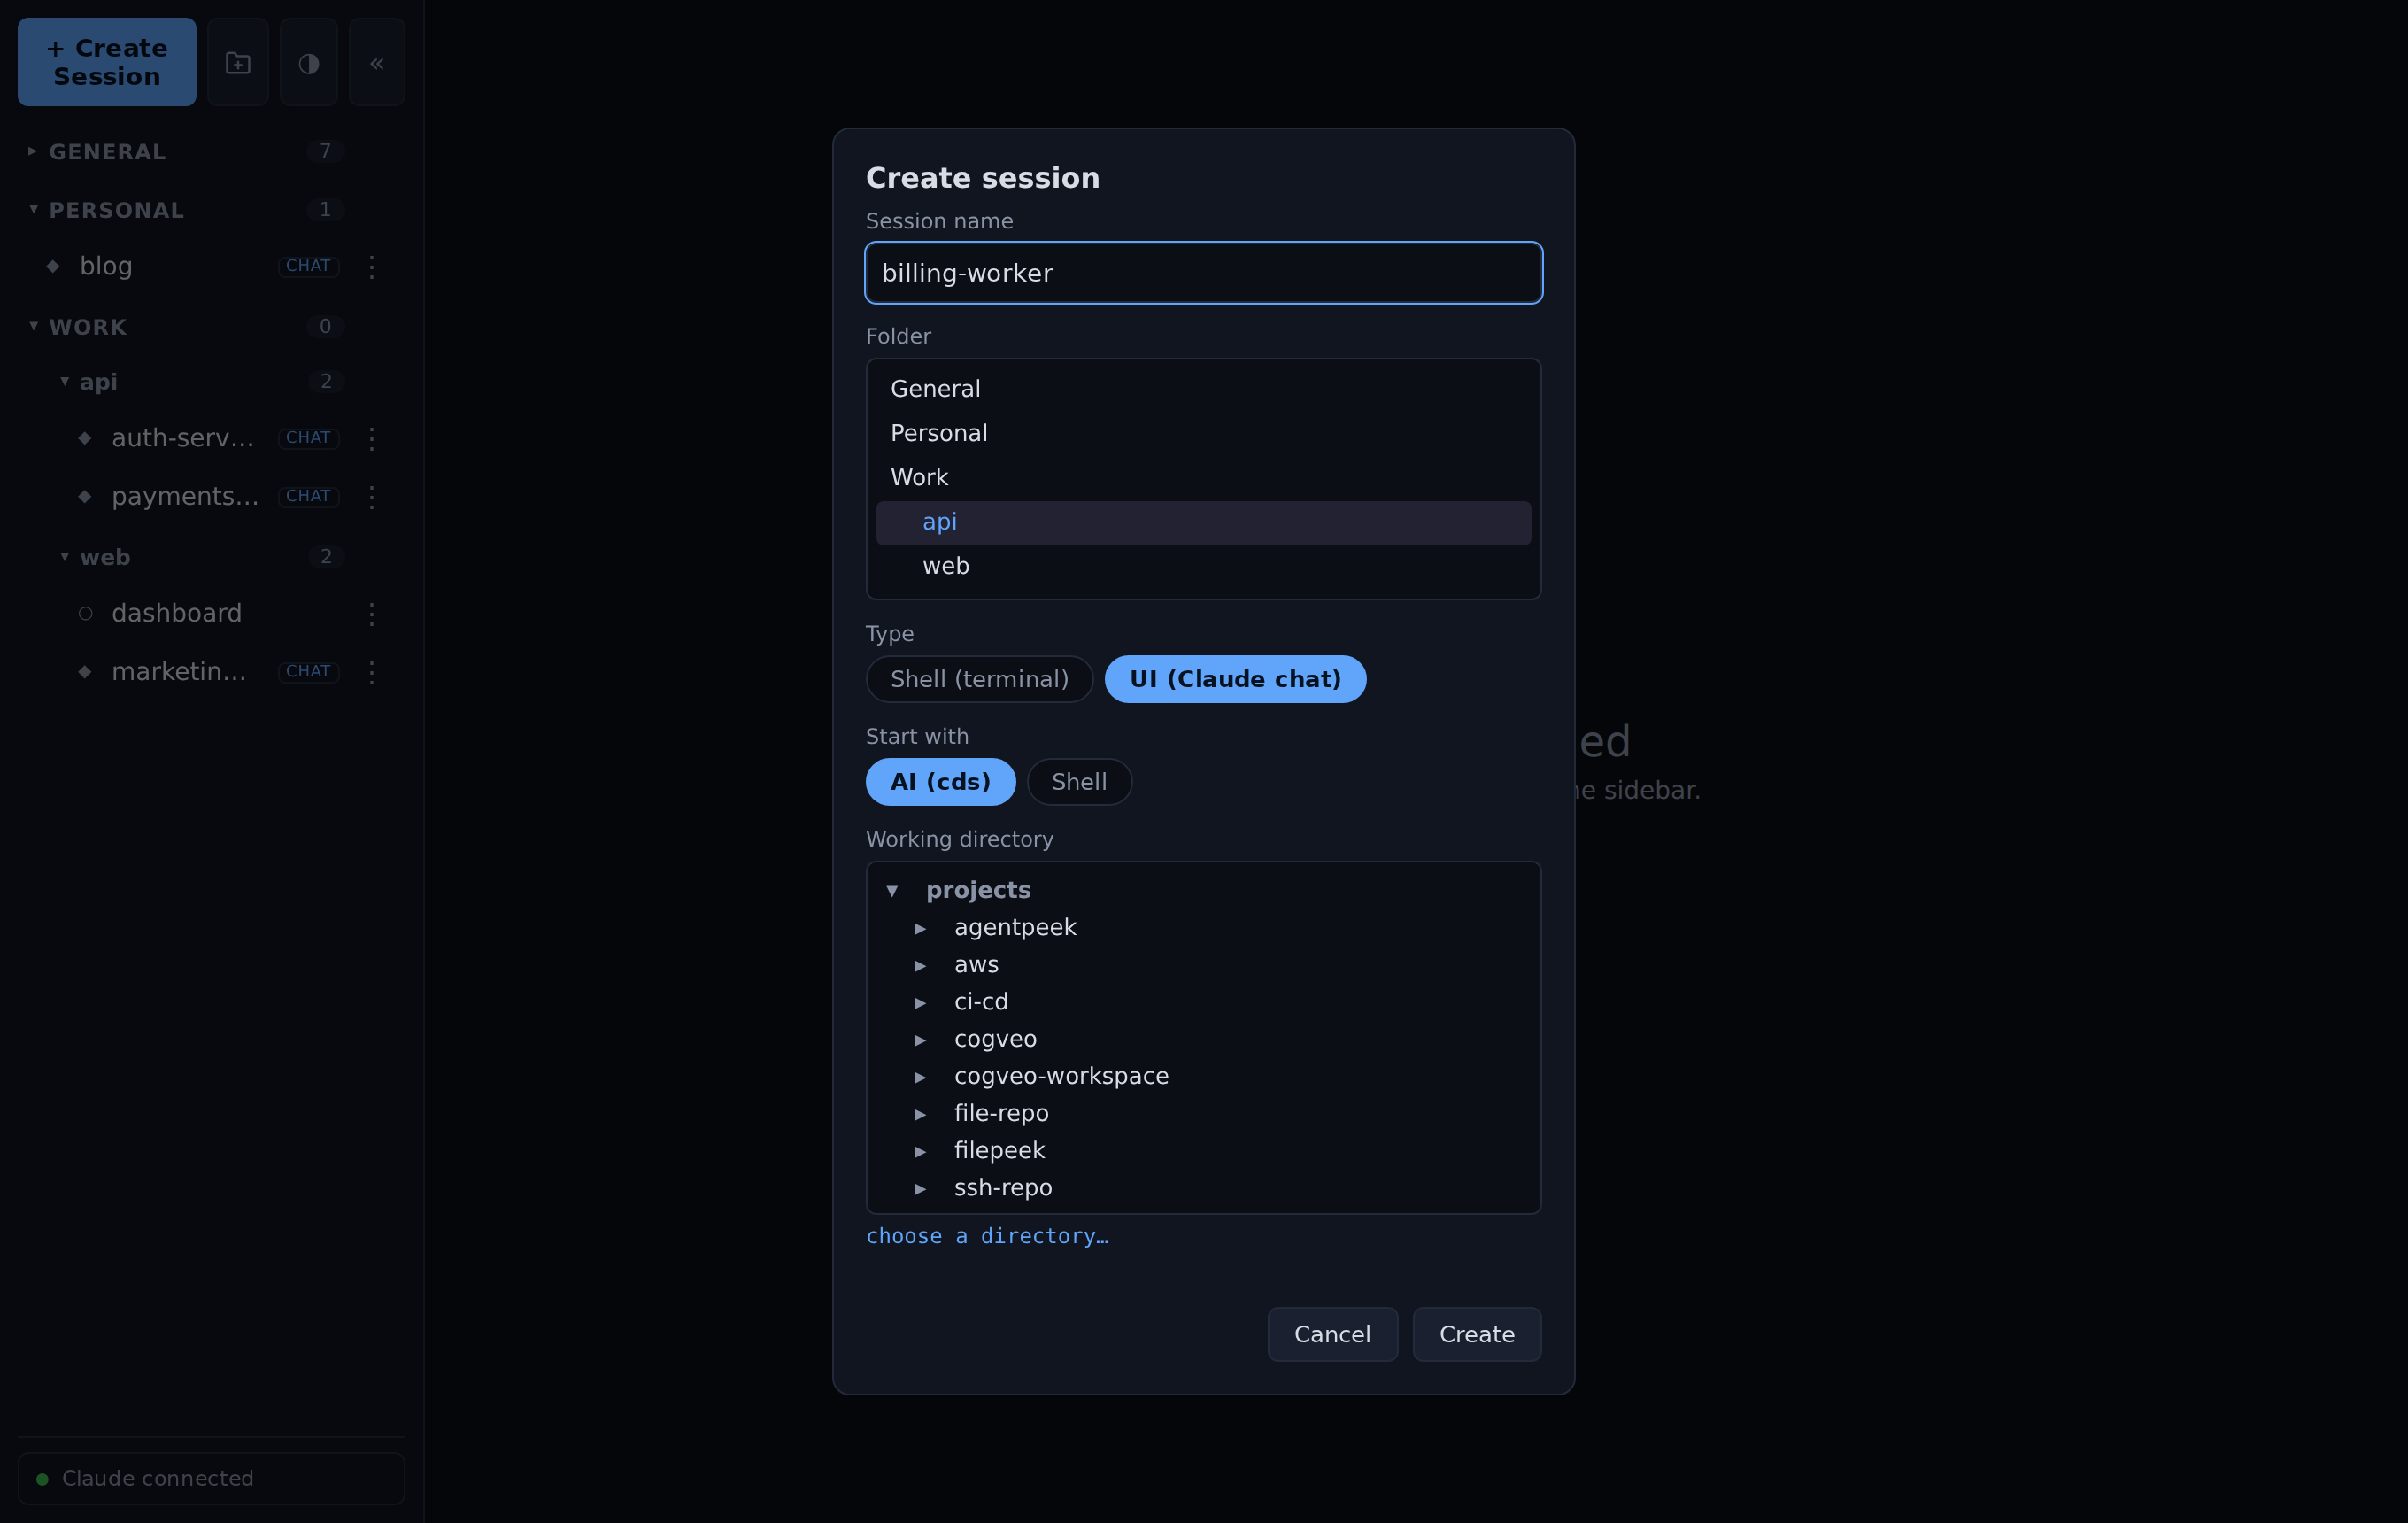
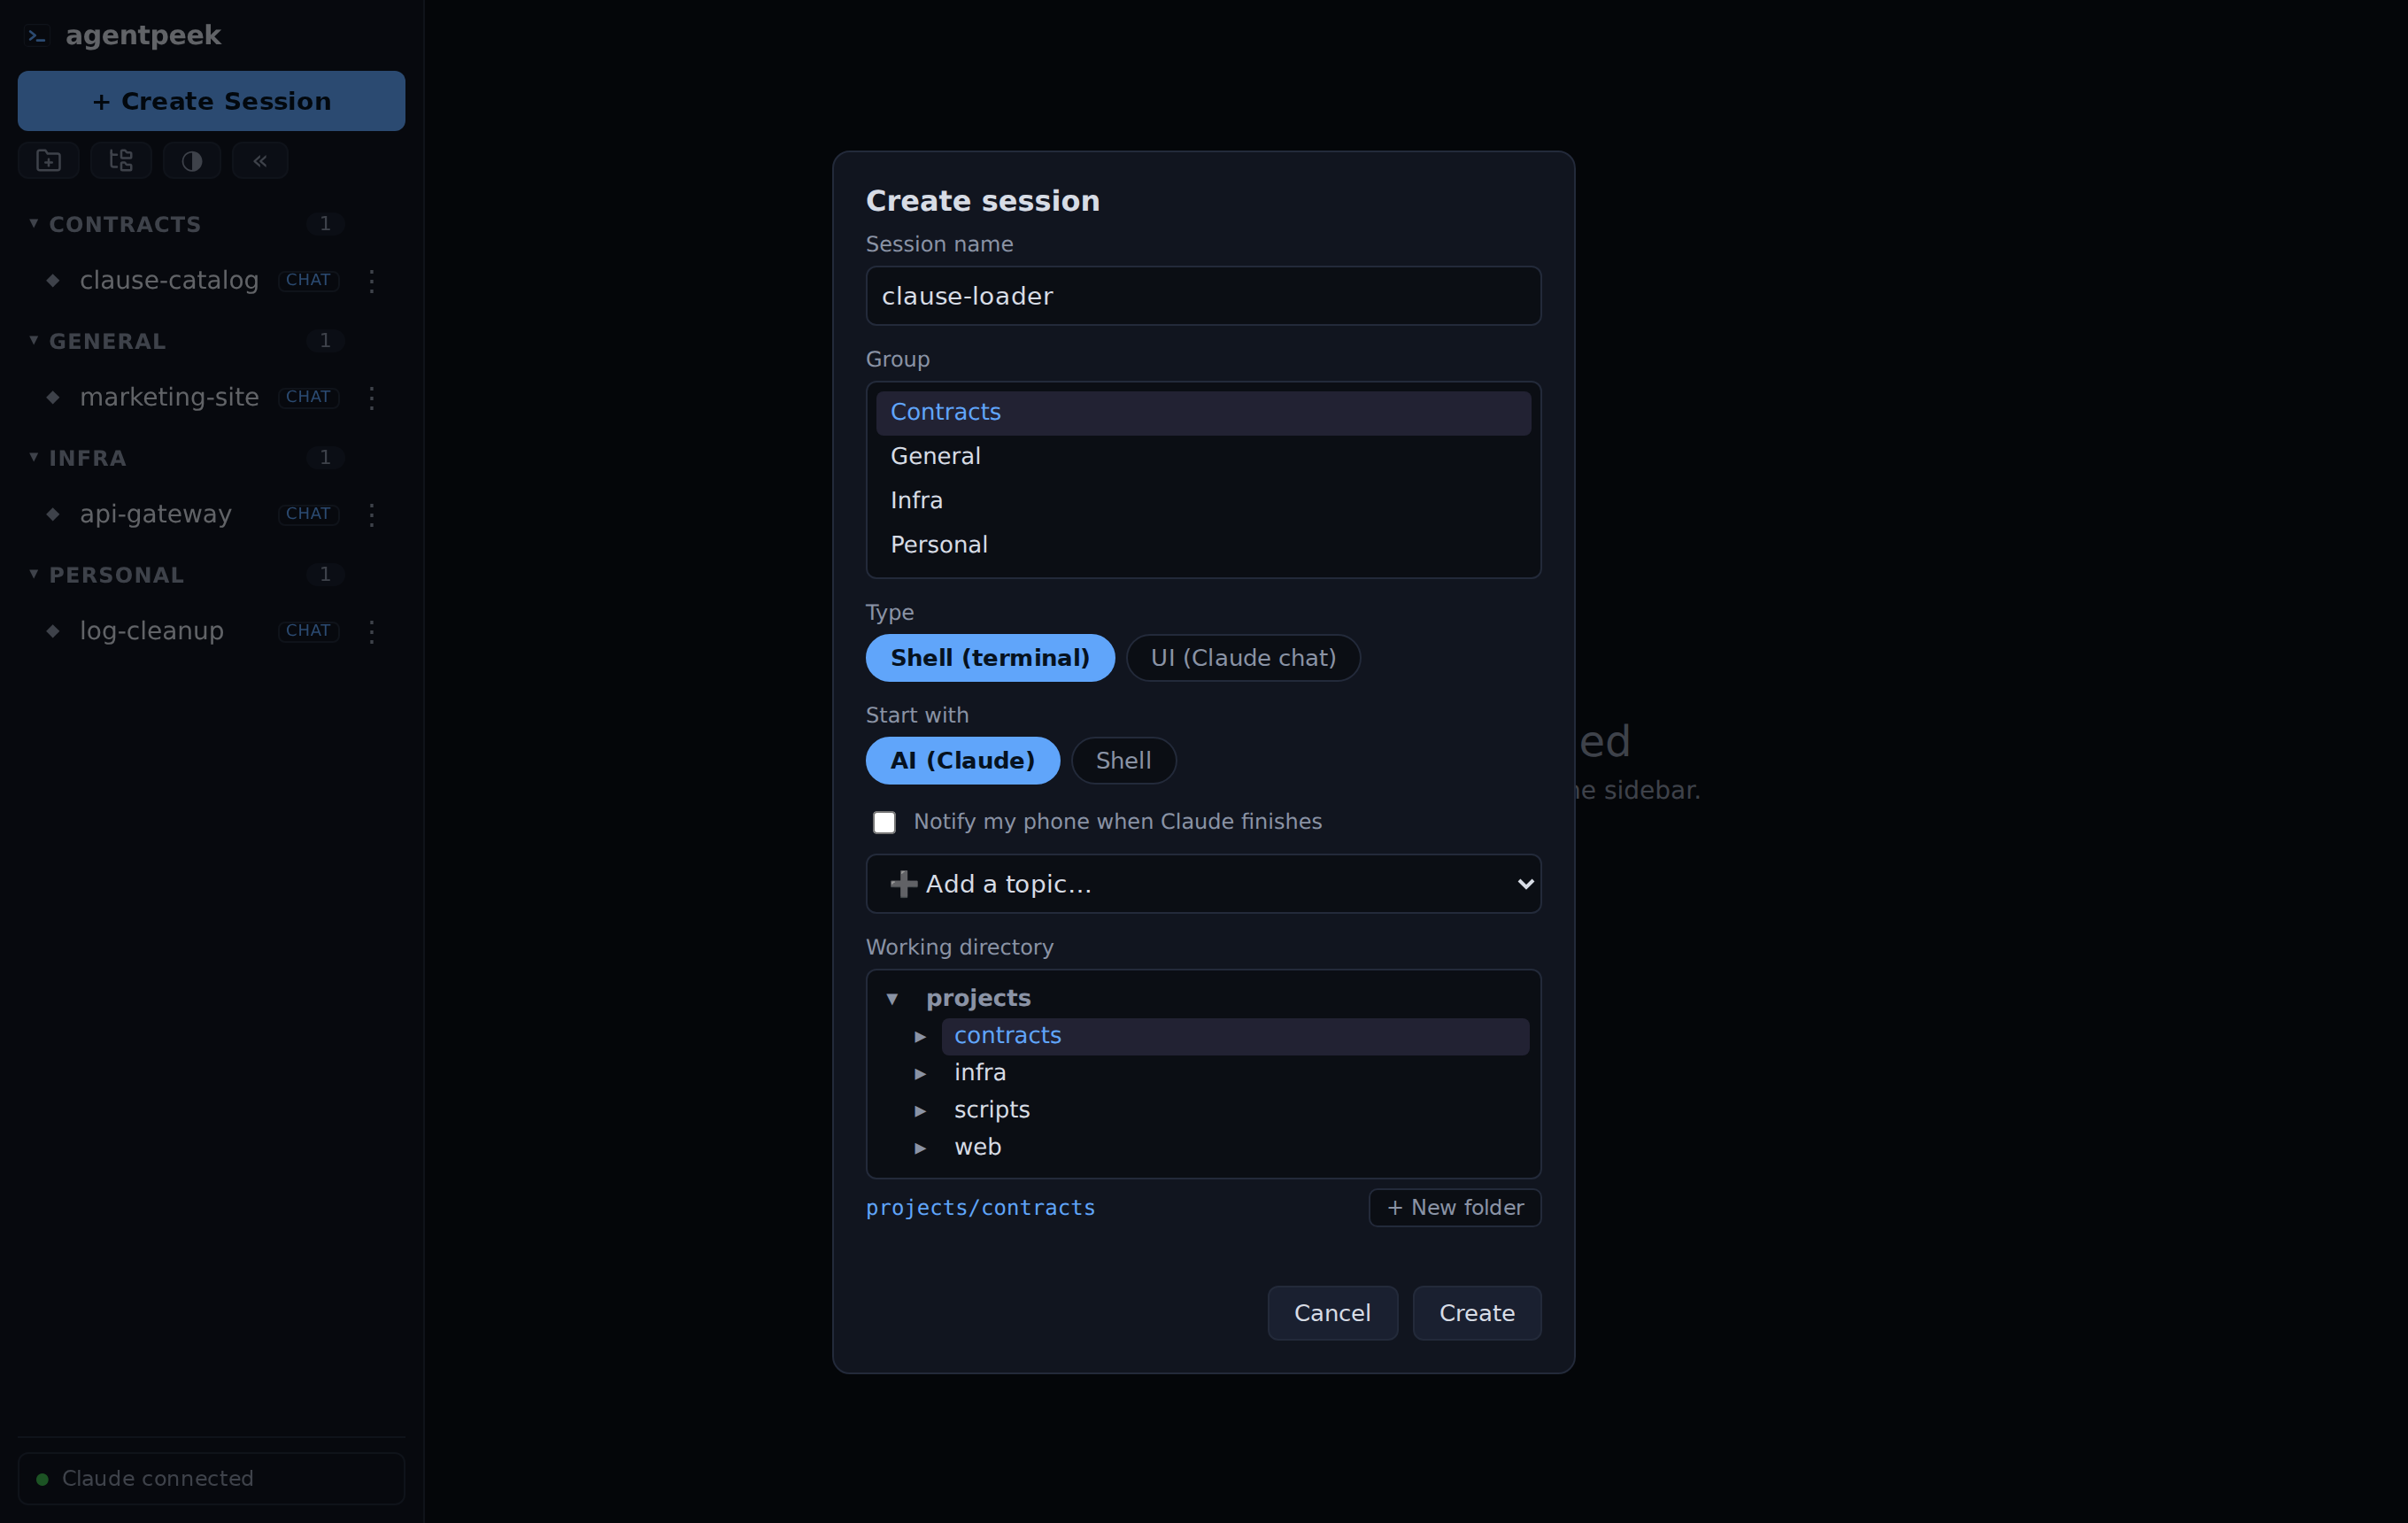
site: document macOS (launchd) and Docker installs
Quick start now has Linux/WSL2, macOS (setup-macos.sh), and Docker (ghcr
multi-arch image) sections; structured data + FAQ updated to list all
platforms. Refresh chat/create screenshots.

diff --git a/site/index.html b/site/index.html
@@ -29,7 +29,7 @@
   "@context": "https://schema.org",
   "@type": "SoftwareApplication",
   "name": "agentpeek",
-  "operatingSystem": "Linux, Windows (WSL2)",
+  "operatingSystem": "Linux, macOS, Windows (WSL2), Docker",
   "applicationCategory": "DeveloperApplication",
   "description": "A self-hosted browser control panel for Claude Code: persistent sessions you drive as a terminal or a streaming chat (Claude Agent SDK), with Markdown/table rendering, inline tool activity, @-mention, image paste, voice, and a model picker. Reachable from any browser over a Tailscale tailnet; sessions keep working when you disconnect.",
   "url": "https://agentpeek.dev/",
@@ -66,8 +66,8 @@
     },
     {
       "@type": "Question",
-      "name": "Does agentpeek work on WSL2?",
-      "acceptedAnswer": { "@type": "Answer", "text": "That's the home turf. Run it inside WSL2 and open it from your Windows browser; it auto-starts on boot via systemd user services and is reached over Tailscale." }
+      "name": "Which platforms does agentpeek run on?",
+      "acceptedAnswer": { "@type": "Answer", "text": "Linux and WSL2 via setup.sh (systemd user services), macOS via setup-macos.sh (Homebrew + launchd agents), and anywhere via the prebuilt multi-arch Docker image — which is also the only way to run it on Windows natively. On WSL2 it opens straight from your Windows browser and auto-starts on boot, reached over Tailscale." }
     },
     {
       "@type": "Question",
@@ -158,7 +158,7 @@
   <img src="logo.svg" alt="agentpeek logo">
   <h1>Persistent Claude Code sessions,<br>in any browser.</h1>
   <p class="tagline">agentpeek is the free, self-hosted browser control panel for Claude Code. Start a
-     session on your Linux or WSL2 box, drive it as a terminal or a chat, and reach it from any
+     session on your Linux, macOS, or WSL2 box, drive it as a terminal or a chat, and reach it from any
      device over your tailnet — <strong>it keeps working when you close the laptop.</strong></p>
   <a class="cta" href="https://github.com/thrinz/agentpeek">Get it on GitHub</a>
   <a class="cta alt" href="https://github.com/thrinz/agentpeek#setup">Quick start</a>
@@ -256,6 +256,8 @@
   </section>
 
   <h2>Quick start</h2>
+
+  <h3>Linux / WSL2</h3>
   <pre><code>cd ~ &amp;&amp; git clone https://github.com/thrinz/agentpeek.git &amp;&amp; cd agentpeek
 ./setup.sh
 # reach it on your tailnet (HTTPS, tailnet-only):
@@ -268,6 +270,34 @@ tailscale serve --bg --https=9443 http://127.0.0.1:8090</code></pre>
      <a href="https://github.com/thrinz/agentpeek#prerequisites">full prerequisites</a>.
      Ports clashing (another service or WSL distro)? Run with
      <code>AGENTPEEK_PORT=9090 AGENTPEEK_TTYD_PORT=9091 ./setup.sh</code>.</p>
+
+  <h3>macOS</h3>
+  <pre><code># prerequisite: Homebrew (https://brew.sh) and Python 3.10+
+git clone https://github.com/thrinz/agentpeek.git &amp;&amp; cd agentpeek
+./setup-macos.sh
+# → open http://localhost:8090</code></pre>
+  <p>The app is identical on macOS; only the installer differs. <code>setup-macos.sh</code>
+     <code>brew install</code>s <strong>tmux</strong> and <strong>ttyd</strong>, installs <strong>Claude
+     Code</strong>, creates the venv, and renders three <strong>launchd</strong> user agents into
+     <code>~/Library/LaunchAgents</code> (<code>dev.agentpeek.tmux</code>, <code>dev.agentpeek.ttyd</code>,
+     <code>dev.agentpeek.app</code>) that start at login — no <code>systemd</code>, no linger. Manage it
+     with <code>launchctl kickstart -k gui/$(id -u)/dev.agentpeek.app</code> (restart) and tail
+     <code>~/Library/Logs/agentpeek/app.log</code>. Same port overrides apply. Install
+     <a href="https://tailscale.com/download">Tailscale for macOS</a>, then
+     <code>tailscale serve</code> works exactly as above.</p>
+
+  <h3>Docker (any OS, incl. Windows)</h3>
+  <pre><code>docker pull ghcr.io/thrinz/agentpeek:latest
+# the agent edits the projects tree you mount; set a Claude API key for UI mode
+PROJECTS_DIR=~/projects ANTHROPIC_API_KEY=sk-ant-... docker compose up -d
+# → http://localhost:8090</code></pre>
+  <p>A prebuilt multi-arch image (<code>linux/amd64</code> + <code>linux/arm64</code>) is published to the
+     GitHub Container Registry, so agentpeek runs anywhere Docker does — <strong>Linux, macOS, or
+     Windows</strong> (Docker Desktop runs the Linux container on Mac/Windows); it's also the only way to
+     run it on Windows natively. <a href="https://github.com/thrinz/agentpeek/blob/main/docker-compose.yml"><code>docker-compose.yml</code></a>
+     mounts your <code>projects</code> tree and keeps app state (<code>~/.config/agentpeek</code>) and Claude
+     auth (<code>~/.claude</code>) in named volumes. It binds <code>127.0.0.1</code> on purpose — reach it
+     over your tailnet, never the open internet.</p>
 
   <h2>Frequently asked questions</h2>
   <details><summary>Which AI agents does it run?</summary>
@@ -283,9 +313,11 @@ tailscale serve --bg --https=9443 http://127.0.0.1:8090</code></pre>
   <details><summary>Can I use my Claude subscription?</summary>
     <p>Yes — sign in with your Pro/Max subscription from inside the app (the same OAuth flow as the
        terminal), or use an Anthropic API key, or point it at AWS Bedrock or Google Vertex AI.</p></details>
-  <details><summary>Does it work on WSL2?</summary>
-    <p>That's the home turf — runs in WSL2, opens from your Windows browser, and auto-starts on boot
-       via systemd user services.</p></details>
+  <details><summary>Which platforms does it run on?</summary>
+    <p>Linux and WSL2 (systemd user services), macOS (<code>setup-macos.sh</code> — Homebrew + launchd
+       agents), and anywhere via the prebuilt multi-arch Docker image — which is also the only way to run
+       it on Windows natively. On WSL2 it opens straight from your Windows browser and auto-starts on
+       boot.</p></details>
   <details><summary>Is it free?</summary>
     <p>Yes — free and open source under the MIT license.</p></details>
 </main>